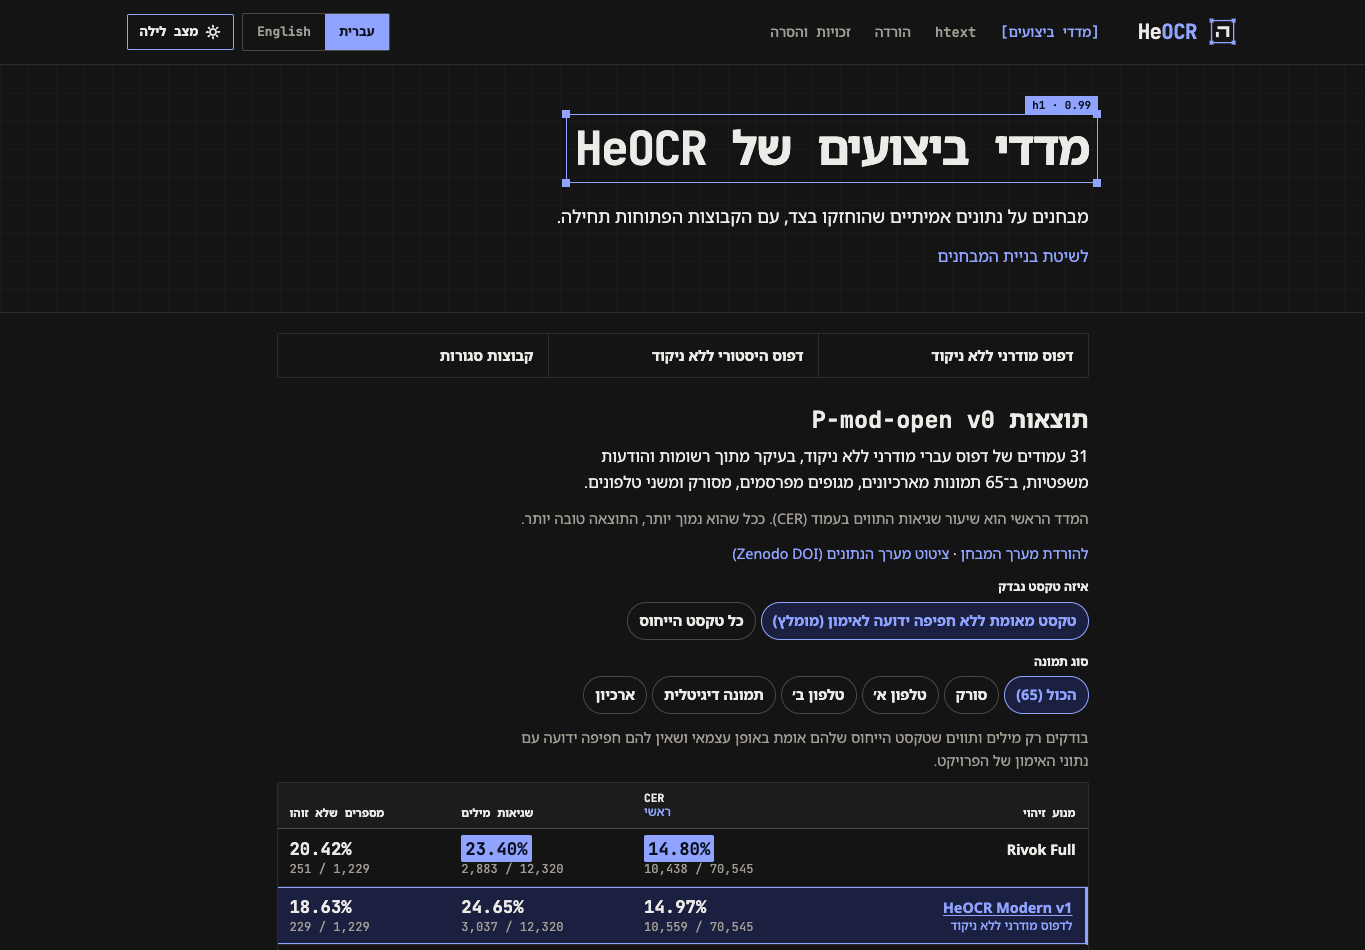
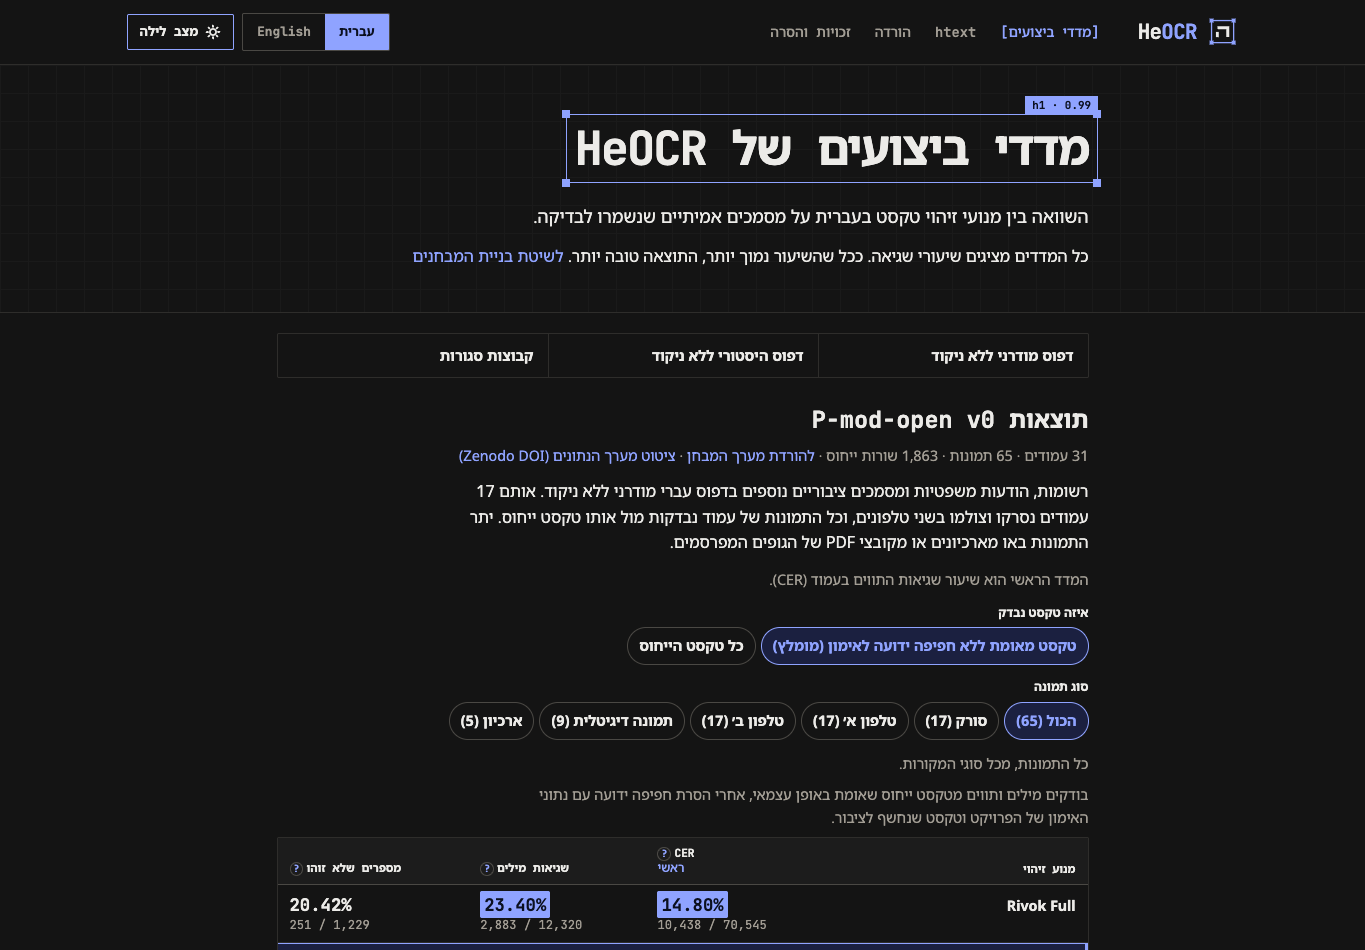
Refresh previews for verified benchmark copy and column help

Changed region(s): [[0.1846, 0.4579, 0.8, 1.0], [0.3077, 0.2137, 0.8, 0.2747]]

diff --git a/README.md b/README.md
@@ -1,6 +1,6 @@
 # Benchmark page redesign screenshots
 
-The baseline is heocr.github.io at `acccb6aa`. The redesign is at `35df423`.
+The baseline is heocr.github.io at `acccb6aa`. The redesign is at `a66da49`.
 The phone-width fallback images were rendered with JavaScript disabled.
 Both versions were served locally and captured in Chromium at the same desktop size
 (1365 × 950) and phone size (390 × 844), with the site's light and dark themes.
